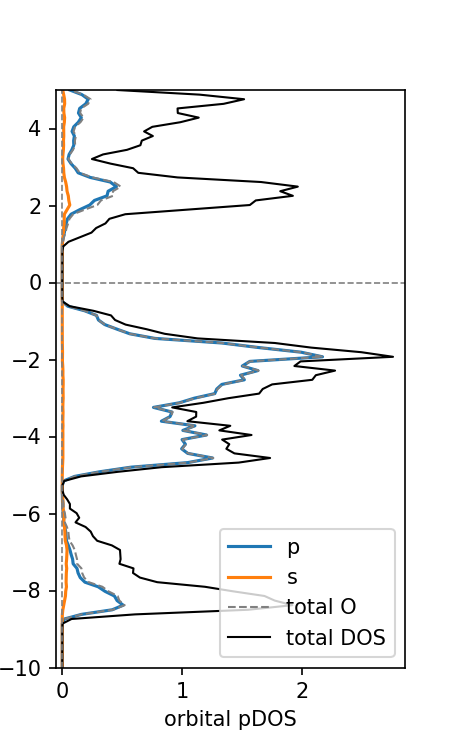
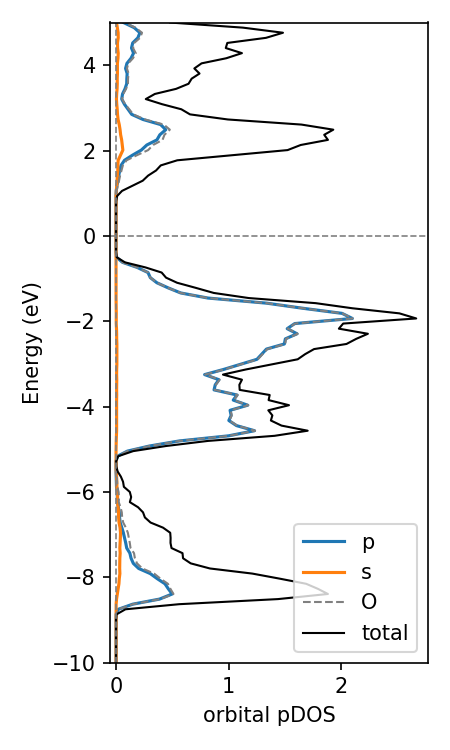
Debug plots

diff --git a/index.md b/index.md
@@ -117,15 +117,15 @@ This class is for generates a band structure from a default high symmetry line f
 This generates a uniform k-point grid, able to perform DOS and itegrated band energy analysis.
 
 <div style="display: flex; justify-content: space-around;">
-    <div class="image-container" style="flex: 1; height: 300px;">
-        <img src="./docs/Si/projectedDOS.png" alt="Image 2" width="90%" style="border: 0;" class="image-hover">
+    <div class="image-container" style="height: 300px;">
+        <img src="./docs/Si/SiprojectedDOS.png" alt="Image 2" width="90%" style="border: 0;" class="image-hover">
         <div class="overlay-text">Plot orbital<br>projected DOS</div>
     </div>
-    <div class="image-container" style="flex: 0.8; height: 300px;">
+    <div class="image-container" style="height: 300px;">
         <img src="./docs/Si/COHP_DOS.png" alt="Image 2" width="90%" style="border: 0;" class="image-hover">
         <div class="overlay-text">Plot COHP/COOP<br>energy density</div>
     </div>
-    <div class="image-container" style="flex: 1.8; height: 300px;">
+    <div class="image-container" style="height: 300px;">
 	<iframe src="docs/PbO/crystal_bonds.html" style="transform: scale(0.75); transform-origin: top left; width: 150%; height: 150%; border: 0;" class="image-hover"></iframe>
        <div class="overlay-text">Plot crytstal with<br>COGITO bonds</div>
     </div>
